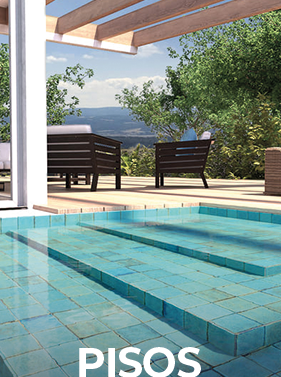
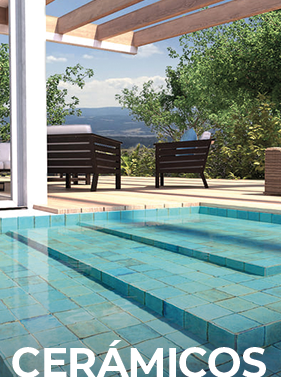
Ultimas modificaciones

Changed region(s): [[0.0285, 0.9045, 0.968, 1.0]]

diff --git a/js/productos-data.js b/js/productos-data.js
@@ -1,6 +1,6 @@
+// Archivo generado automáticamente
 
-
-const productos_aluminio = [{"id": 1, "titulo": "GUARDACANTO", "subtitulo": "Mate 9mm", "descripcion": "GAM9", "imgProducto": "img/ALUMINIO/PRODUCTOS/1_300X300_0029_GAM9.png", "imgFicha": "img/ALUMINIO/FICHA/1-FICHAS TECNICAS - ACERO2-09.png"}, {"id": 2, "titulo": "GUARDACANTO", "subtitulo": "Mate 12mm", "descripcion": "GAM12", "imgProducto": "img/ALUMINIO/PRODUCTOS/2_300X300_0039_GAM12.png", "imgFicha": "img/ALUMINIO/FICHA/2-FICHAS TECNICAS - ACERO2-13.png"}, {"id": 3, "titulo": "GUARDACANTO", "subtitulo": "PLUS Mate 9mm", "descripcion": "GAMP9", "imgProducto": "img/ALUMINIO/PRODUCTOS/3_300X300_0027_GAMP9.png", "imgFicha": "img/ALUMINIO/FICHA/3-FICHAS TECNICAS - ACERO2-17.png"}, {"id": 4, "titulo": "GUARDACANTO", "subtitulo": "Brillante 9mm", "descripcion": "GAB9", "imgProducto": "img/ALUMINIO/PRODUCTOS/4_300X300_0025_GAB9.png", "imgFicha": "img/ALUMINIO/FICHA/4-FICHAS TECNICAS - ACERO2-10.png"}, {"id": 5, "titulo": "GUARDACANTO", "subtitulo": "Brillante 12mm", "descripcion": "GAB12", "imgProducto": "img/ALUMINIO/PRODUCTOS/5_300X300_0026_GAB12.png", "imgFicha": "img/ALUMINIO/FICHA/5-FICHAS TECNICAS - ACERO2-14.png"}, {"id": 6, "titulo": "GUARDACANTO", "subtitulo": "PLUS Brillante 9mm", "descripcion": "GABP9", "imgProducto": "img/ALUMINIO/PRODUCTOS/6_300X300_0028_GABP9.png", "imgFicha": "img/ALUMINIO/FICHA/6-FICHAS TECNICAS - ACERO2-18.png"}, {"id": 7, "titulo": "GUARDACANTO", "subtitulo": "ORO Mate 9mm", "descripcion": "GAOM9", "imgProducto": "img/ALUMINIO/PRODUCTOS/7_300X300_0040_GAOM9.png", "imgFicha": "img/ALUMINIO/FICHA/7-FICHAS TECNICAS - ACERO2-11.png"}, {"id": 8, "titulo": "GUARDACANTO", "subtitulo": "ORO Mate 12mm", "descripcion": "GAOM12", "imgProducto": "img/ALUMINIO/PRODUCTOS/8_300X300_0030_GAOM12.png", "imgFicha": "img/ALUMINIO/FICHA/8-FICHAS TECNICAS - ACERO2-15.png"}, {"id": 9, "titulo": "GUARDACANTO", "subtitulo": "ORO PLUS Mate 9mm", "descripcion": "GAOMP9", "imgProducto": "img/ALUMINIO/PRODUCTOS/9_300X300_0036_GAOMP9.png", "imgFicha": "img/ALUMINIO/FICHA/9-FICHAS TECNICAS - ACERO2-19.png"}, {"id": 10, "titulo": "GUARDACANTO", "subtitulo": "ORO Brillante 9mm", "descripcion": "GAOB9", "imgProducto": "img/ALUMINIO/PRODUCTOS/10_300X300_0033_GAOB9.png", "imgFicha": "img/ALUMINIO/FICHA/10-FICHAS TECNICAS - ACERO2-12.png"}, {"id": 11, "titulo": "GUARDACANTO", "subtitulo": "ORO Brillante 12mm", "descripcion": "GAOB12", "imgProducto": "img/ALUMINIO/PRODUCTOS/11_300X300_0031_GAOB12 - copia.png", "imgFicha": "img/ALUMINIO/FICHA/11-FICHAS TECNICAS - ACERO2-16.png"}, {"id": 12, "titulo": "GUARDACANTO", "subtitulo": "ORO PLUS Brillante 9mm", "descripcion": "GAOBP9", "imgProducto": "img/ALUMINIO/PRODUCTOS/12_300X300_0037_GAOBP9.png", "imgFicha": "img/ALUMINIO/FICHA/12-FICHAS TECNICAS - ACERO2-20.png"}, {"id": 13, "titulo": "LISTEL", "subtitulo": "Mate 10X10mm", "descripcion": "LAM10X10", "imgProducto": "img/ALUMINIO/PRODUCTOS/13_300X300_0011_LAM10X10.png", "imgFicha": "img/ALUMINIO/FICHA/13-FICHAS TECNICAS - ACERO2-01.png"}, {"id": 14, "titulo": "LISTEL", "subtitulo": "Mate 10X20mm", "descripcion": "LAM10X20", "imgProducto": "img/ALUMINIO/PRODUCTOS/14_300X300_0013_LAM10X20.png", "imgFicha": "img/ALUMINIO/FICHA/14-FICHAS TECNICAS - ACERO2-05.png"}, {"id": 15, "titulo": "GUAR. ESCALERA", "subtitulo": "Sin Tratamiento", "descripcion": "GAEST", "imgProducto": "img/ALUMINIO/PRODUCTOS/15_300X300_0022_GAEST.png", "imgFicha": "img/ALUMINIO/FICHA/15-FICHAS TECNICAS - ACERO2-35-35.png"}, {"id": 16, "titulo": "LISTEL", "subtitulo": "Brillante 10X10mm", "descripcion": "LAB10X10", "imgProducto": "img/ALUMINIO/PRODUCTOS/16_300X300_0010_LAB10X10.png", "imgFicha": "img/ALUMINIO/FICHA/16-FICHAS TECNICAS - ACERO2-02.png"}, {"id": 17, "titulo": "LISTEL", "subtitulo": "Brillante 10X20mm", "descripcion": "LAB10X20", "imgProducto": "img/ALUMINIO/PRODUCTOS/17_300X300_0012_LAB10X20.png", "imgFicha": "img/ALUMINIO/FICHA/17-FICHAS TECNICAS - ACERO2-06.png"}, {"id": 18, "titulo": "GUAR. ESCALERA", "subtitulo": "Mate", "descripcion": "GAEM", "imgProducto": "img/ALUMINIO/PRODUCTOS/18_300X300_0021_GAEM.png", "imgFicha": "img/ALUMINIO/FICHA/18-FICHAS TECNICAS - ACERO2-30-30.png"}, {"id": 19, "titulo": "LISTEL", "subtitulo": "ORO Mate 10X10mm", "descripcion": "LAOM10X10", "imgProducto": "img/ALUMINIO/PRODUCTOS/19_300X300_0015_LAOM10X10.png", "imgFicha": "img/ALUMINIO/FICHA/19-FICHAS TECNICAS - ACERO2-03.png"}, {"id": 20, "titulo": "LISTEL", "subtitulo": "ORO Mate 10X20mm", "descripcion": "LAOM10X20", "imgProducto": "img/ALUMINIO/PRODUCTOS/20_300X300_0017_LAOM10X20.png", "imgFicha": "img/ALUMINIO/FICHA/20-FICHAS TECNICAS - ACERO2-07.png"}, {"id": 21, "titulo": "GUAR. ESCALERA II", "subtitulo": "Sin Tratamiento", "descripcion": "GAESTII", "imgProducto": "img/ALUMINIO/PRODUCTOS/21_300X300_0024_GAESTII.png", "imgFicha": "img/ALUMINIO/FICHA/21-FICHAS TECNICAS - ACERO2-36-36.png"}, {"id": 22, "titulo": "LISTEL", "subtitulo": "ORO Brillante 10X10mm", "descripcion": "LAOM10X10", "imgProducto": "img/ALUMINIO/PRODUCTOS/22_300X300_0014_LAOB10X10.png", "imgFicha": "img/ALUMINIO/FICHA/22-FICHAS TECNICAS - ACERO2-04.png"}, {"id": 23, "titulo": "LISTEL", "subtitulo": "ORO Brillante 10X20mm", "descripcion": "LAOM10X20", "imgProducto": "img/ALUMINIO/PRODUCTOS/23_300X300_0016_LAOB10X20.png", "imgFicha": "img/ALUMINIO/FICHA/23-FICHAS TECNICAS - ACERO2-08.png"}, {"id": 24, "titulo": "GUAR. ESCALERA II", "subtitulo": "Mate", "descripcion": "GAEMII", "imgProducto": "img/ALUMINIO/PRODUCTOS/24_300X300_0023_GAEMII.png", "imgFicha": "img/ALUMINIO/FICHA/24-FICHAS TECNICAS - ACERO2-31-31.png"}, {"id": 25, "titulo": "PERFIL L TROQ.", "subtitulo": "Mate 11mm", "descripcion": "L11M", "imgProducto": "img/ALUMINIO/PRODUCTOS/25_300X300_0009_L11M.png", "imgFicha": "img/ALUMINIO/FICHA/25-FICHAS TECNICAS - ACERO2-21-21.png"}, {"id": 26, "titulo": "UT QUADRA", "subtitulo": "Mate 10X10mm", "descripcion": "QUADRA10X10M", "imgProducto": "img/ALUMINIO/PRODUCTOS/26_300X300_0042_QUADRA10X10M.png", "imgFicha": "img/ALUMINIO/FICHA/26-FICHAS TECNICAS - ACERO2-27-27-27.png"}, {"id": 27, "titulo": "TAPACANTO", "subtitulo": "Mate 16X16mm", "descripcion": "TAPAC16X16M", "imgProducto": "img/ALUMINIO/PRODUCTOS/27_300X300_0003_TAPAC16M.png", "imgFicha": "img/ALUMINIO/FICHA/27-FICHAS TECNICAS - ACERO2-23-23.png"}, {"id": 28, "titulo": "PERFIL L TROQ.", "subtitulo": "Brillante 11mm", "descripcion": "L11B", "imgProducto": "img/ALUMINIO/PRODUCTOS/28_300X300_0008_L11B.png", "imgFicha": "img/ALUMINIO/FICHA/28-FICHAS TECNICAS - ACERO2-22-22-22.png"}, {"id": 29, "titulo": "UT QUADRA", "subtitulo": "Brillante 10X10mm", "descripcion": "QUADRA10X10B", "imgProducto": "img/ALUMINIO/PRODUCTOS/29_300X300_0041_QUADRA10X10B.png", "imgFicha": "img/ALUMINIO/FICHA/29-FICHAS TECNICAS - ACERO2-28-28-28.png"}, {"id": 30, "titulo": "TAPACANTO", "subtitulo": "Brillante 16X16mm", "descripcion": "TAPAC16X16B", "imgProducto": "img/ALUMINIO/PRODUCTOS/30_300X300_0004_TAPAC16B.png", "imgFicha": "img/ALUMINIO/FICHA/30-FICHAS TECNICAS - ACERO2-24-24.png"}, {"id": 31, "titulo": "LISTELO 29", "subtitulo": "Mate 10X28mm", "descripcion": "LISTEL29M", "imgProducto": "img/ALUMINIO/PRODUCTOS/31_300X300_0006_LISTELO29M.png", "imgFicha": "img/ALUMINIO/FICHA/31-FICHAS TECNICAS - ACERO2-25-25.png"}, {"id": 32, "titulo": "GUARDACANTO", "subtitulo": "Sin Tratamiento 9mm", "descripcion": "GAST9", "imgProducto": "img/ALUMINIO/PRODUCTOS/32_300X300_0025_GAST9.png", "imgFicha": "img/ALUMINIO/FICHA/32-FICHAS TECNICAS - ACERO2-32.png"}, {"id": 33, "titulo": "PERFIL L TROQ.", "subtitulo": "Sin Tratamiento 11mm", "descripcion": "L11ST", "imgProducto": "img/ALUMINIO/PRODUCTOS/33_300X300_0007_L11ST.png", "imgFicha": "img/ALUMINIO/FICHA/33-FICHAS TECNICAS - ACERO2-34-34.png"}, {"id": 34, "titulo": "LISTELO 29", "subtitulo": "Brillante 10X28mm", "descripcion": "LISTEL29B", "imgProducto": "img/ALUMINIO/PRODUCTOS/34_300X300_0005_LISTELO29B.png", "imgFicha": "img/ALUMINIO/FICHA/34-FICHAS TECNICAS - ACERO2-26-26.png"}, {"id": 35, "titulo": "GUARDACANTO", "subtitulo": "Sin Tratamiento 12mm", "descripcion": "GAST12", "imgProducto": "img/ALUMINIO/PRODUCTOS/35_300X300_0032_GAST12.png", "imgFicha": "img/ALUMINIO/FICHA/35-FICHAS TECNICAS - ACERO2-33.png"}, {"id": 36, "titulo": "DESNIVEL DE PISO.", "subtitulo": "Mate", "descripcion": "DESNPM", "imgProducto": "img/ALUMINIO/PRODUCTOS/36_300X300_0002_DESNP.png", "imgFicha": "img/ALUMINIO/FICHA/36-FICHAS TECNICAS - ACERO2-29-29.png"}];
+const productos_aluminio = [{"id": 1, "titulo": "GUARDACANTO", "subtitulo": "Mate 9mm", "descripcion": "GAM9", "imgProducto": "img/ALUMINIO/PRODUCTOS/1_300X300_0029_GAM9.png", "imgFicha": "img/ALUMINIO/FICHA/1-FICHAS TECNICAS - ACERO2-09.png"}, {"id": 2, "titulo": "GUARDACANTO", "subtitulo": "Mate 12mm", "descripcion": "GAM12", "imgProducto": "img/ALUMINIO/PRODUCTOS/2_300X300_0039_GAM12.png", "imgFicha": "img/ALUMINIO/FICHA/2-FICHAS TECNICAS - ACERO2-13.png"}, {"id": 3, "titulo": "GUARDACANTO", "subtitulo": "PLUS Mate 9mm", "descripcion": "GAMP9", "imgProducto": "img/ALUMINIO/PRODUCTOS/3_300X300_0027_GAMP9.png", "imgFicha": "img/ALUMINIO/FICHA/3-FICHAS TECNICAS - ACERO2-17.png"}, {"id": 4, "titulo": "GUARDACANTO", "subtitulo": "Brillante 9mm", "descripcion": "GAB9", "imgProducto": "img/ALUMINIO/PRODUCTOS/4_300X300_0025_GAB9.png", "imgFicha": "img/ALUMINIO/FICHA/4-FICHAS TECNICAS - ACERO2-10.png"}, {"id": 5, "titulo": "GUARDACANTO", "subtitulo": "Brillante 12mm", "descripcion": "GAB12", "imgProducto": "img/ALUMINIO/PRODUCTOS/5_300X300_0026_GAB12.png", "imgFicha": "img/ALUMINIO/FICHA/5-FICHAS TECNICAS - ACERO2-14.png"}, {"id": 6, "titulo": "GUARDACANTO", "subtitulo": "PLUS Brillante 9mm", "descripcion": "GABP9", "imgProducto": "img/ALUMINIO/PRODUCTOS/6_300X300_0028_GABP9.png", "imgFicha": "img/ALUMINIO/FICHA/6-FICHAS TECNICAS - ACERO2-18.png"}, {"id": 7, "titulo": "GUARDACANTO", "subtitulo": "ORO Mate 9mm", "descripcion": "GAOM9", "imgProducto": "img/ALUMINIO/PRODUCTOS/7_300X300_0040_GAOM9.png", "imgFicha": "img/ALUMINIO/FICHA/7-FICHAS TECNICAS - ACERO2-11.png"}, {"id": 8, "titulo": "GUARDACANTO", "subtitulo": "ORO Mate 12mm", "descripcion": "GAOM12", "imgProducto": "img/ALUMINIO/PRODUCTOS/8_300X300_0030_GAOM12.png", "imgFicha": "img/ALUMINIO/FICHA/8-FICHAS TECNICAS - ACERO2-15.png"}, {"id": 9, "titulo": "GUARDACANTO", "subtitulo": "ORO PLUS Mate 9mm", "descripcion": "GAOMP9", "imgProducto": "img/ALUMINIO/PRODUCTOS/9_300X300_0036_GAOMP9.png", "imgFicha": "img/ALUMINIO/FICHA/9-FICHAS TECNICAS - ACERO2-19.png"}, {"id": 10, "titulo": "GUARDACANTO", "subtitulo": "ORO Brillante 9mm", "descripcion": "GAOB9", "imgProducto": "img/ALUMINIO/PRODUCTOS/10_300X300_0033_GAOB9.png", "imgFicha": "img/ALUMINIO/FICHA/10-FICHAS TECNICAS - ACERO2-12.png"}, {"id": 11, "titulo": "GUARDACANTO", "subtitulo": "ORO Brillante 12mm", "descripcion": "GAOB12", "imgProducto": "img/ALUMINIO/PRODUCTOS/11_300X300_0031_GAOB12 - copia.png", "imgFicha": "img/ALUMINIO/FICHA/11-FICHAS TECNICAS - ACERO2-16.png"}, {"id": 12, "titulo": "GUARDACANTO", "subtitulo": "ORO PLUS Brillante 9mm", "descripcion": "GAOBP9", "imgProducto": "img/ALUMINIO/PRODUCTOS/12_300X300_0037_GAOBP9.png", "imgFicha": "img/ALUMINIO/FICHA/12-FICHAS TECNICAS - ACERO2-20.png"}, {"id": 13, "titulo": "LISTEL", "subtitulo": "Mate 10X10mm", "descripcion": "LAM10X10", "imgProducto": "img/ALUMINIO/PRODUCTOS/13_300X300_0011_LAM10X10.png", "imgFicha": "img/ALUMINIO/FICHA/13-FICHAS TECNICAS - ACERO2-01.png"}, {"id": 14, "titulo": "LISTEL", "subtitulo": "Mate 10X20mm", "descripcion": "LAM10X20", "imgProducto": "img/ALUMINIO/PRODUCTOS/14_300X300_0013_LAM10X20.png", "imgFicha": "img/ALUMINIO/FICHA/14-FICHAS TECNICAS - ACERO2-05.png"}, {"id": 15, "titulo": "GUAR. ESCALERA", "subtitulo": "Sin Tratamiento", "descripcion": "GAEST", "imgProducto": "img/ALUMINIO/PRODUCTOS/15_300X300_0022_GAEST.png", "imgFicha": "img/ALUMINIO/FICHA/15-FICHAS TECNICAS - ACERO2-35-35.png"}, {"id": 16, "titulo": "LISTEL", "subtitulo": "Brillante 10X10mm", "descripcion": "LAB10X10", "imgProducto": "img/ALUMINIO/PRODUCTOS/16_300X300_0010_LAB10X10.png", "imgFicha": "img/ALUMINIO/FICHA/16-FICHAS TECNICAS - ACERO2-02.png"}, {"id": 17, "titulo": "LISTEL", "subtitulo": "Brillante 10X20mm", "descripcion": "LAB10X20", "imgProducto": "img/ALUMINIO/PRODUCTOS/17_300X300_0012_LAB10X20.png", "imgFicha": "img/ALUMINIO/FICHA/17-FICHAS TECNICAS - ACERO2-06.png"}, {"id": 18, "titulo": "GUAR. ESCALERA", "subtitulo": "Mate", "descripcion": "GAEM", "imgProducto": "img/ALUMINIO/PRODUCTOS/18_300X300_0021_GAEM.png", "imgFicha": "img/ALUMINIO/FICHA/18-FICHAS TECNICAS - ACERO2-30-30.png"}, {"id": 19, "titulo": "LISTEL", "subtitulo": "ORO Mate 10X10mm", "descripcion": "LAOM10X10", "imgProducto": "img/ALUMINIO/PRODUCTOS/19_300X300_0015_LAOM10X10.png", "imgFicha": "img/ALUMINIO/FICHA/19-FICHAS TECNICAS - ACERO2-03.png"}, {"id": 20, "titulo": "LISTEL", "subtitulo": "ORO Mate 10X20mm", "descripcion": "LAOM10X20", "imgProducto": "img/ALUMINIO/PRODUCTOS/20_300X300_0017_LAOM10X20.png", "imgFicha": "img/ALUMINIO/FICHA/20-FICHAS TECNICAS - ACERO2-07.png"}, {"id": 21, "titulo": "GUAR. ESCALERA II", "subtitulo": "Sin Tratamiento", "descripcion": "GAESTII", "imgProducto": "img/ALUMINIO/PRODUCTOS/21_300X300_0024_GAESTII.png", "imgFicha": "img/ALUMINIO/FICHA/21-FICHAS TECNICAS - ACERO2-36-36.png"}, {"id": 22, "titulo": "LISTEL", "subtitulo": "ORO Brillante 10X10mm", "descripcion": "LAOM10X10", "imgProducto": "img/ALUMINIO/PRODUCTOS/22_300X300_0014_LAOB10X10.png", "imgFicha": "img/ALUMINIO/FICHA/22-FICHAS TECNICAS - ACERO2-04.png"}, {"id": 23, "titulo": "LISTEL", "subtitulo": "ORO Brillante 10X20mm", "descripcion": "LAOM10X20", "imgProducto": "img/ALUMINIO/PRODUCTOS/23_300X300_0016_LAOB10X20.png", "imgFicha": "img/ALUMINIO/FICHA/23-FICHAS TECNICAS - ACERO2-08.png"}, {"id": 24, "titulo": "GUAR. ESCALERA II", "subtitulo": "Mate", "descripcion": "GAEMII", "imgProducto": "img/ALUMINIO/PRODUCTOS/24_300X300_0023_GAEMII.png", "imgFicha": "img/ALUMINIO/FICHA/24-FICHAS TECNICAS - ACERO2-31-31.png"}, {"id": 25, "titulo": "PERFIL L TROQ.", "subtitulo": "Mate 11mm", "descripcion": "L11M", "imgProducto": "img/ALUMINIO/PRODUCTOS/25_300X300_0009_L11M.png", "imgFicha": "img/ALUMINIO/FICHA/25-FICHAS TECNICAS - ACERO2-21-21.png"}, {"id": 26, "titulo": "UT QUADRA", "subtitulo": "Mate 10X10mm", "descripcion": "QUADRA10X10M", "imgProducto": "img/ALUMINIO/PRODUCTOS/26_300X300_0042_QUADRA10X10M.png", "imgFicha": "img/ALUMINIO/FICHA/26-FICHAS TECNICAS - ACERO2-27-27-27.png"}, {"id": 27, "titulo": "TAPACANTO", "subtitulo": "Mate 16X16mm", "descripcion": "TAPAC16X16M", "imgProducto": "img/ALUMINIO/PRODUCTOS/27_300X300_0003_TAPAC16M.png", "imgFicha": "img/ALUMINIO/FICHA/27-FICHAS TECNICAS - ACERO2-23-23.png"}, {"id": 28, "titulo": "PERFIL L TROQ.", "subtitulo": "Brillante 11mm", "descripcion": "L11B", "imgProducto": "img/ALUMINIO/PRODUCTOS/28_300X300_0008_L11B.png", "imgFicha": "img/ALUMINIO/FICHA/28-FICHAS TECNICAS - ACERO2-22-22-22.png"}, {"id": 29, "titulo": "UT QUADRA", "subtitulo": "Brillante 10X10mm", "descripcion": "QUADRA10X10B", "imgProducto": "img/ALUMINIO/PRODUCTOS/29_300X300_0041_QUADRA10X10B.png", "imgFicha": "img/ALUMINIO/FICHA/29-FICHAS TECNICAS - ACERO2-28-28-28.png"}, {"id": 30, "titulo": "TAPACANTO", "subtitulo": "Brillante 16X16mm", "descripcion": "TAPAC16X16B", "imgProducto": "img/ALUMINIO/PRODUCTOS/30_300X300_0004_TAPAC16B.png", "imgFicha": "img/ALUMINIO/FICHA/30-FICHAS TECNICAS - ACERO2-24-24.png"}, {"id": 31, "titulo": "LISTELO 29", "subtitulo": "Mate 10X28mm", "descripcion": "LISTEL29M", "imgProducto": "img/ALUMINIO/PRODUCTOS/31_300X300_0006_LISTELO29M.png", "imgFicha": "img/ALUMINIO/FICHA/31-FICHAS TECNICAS - ACERO2-25-25.png"}, {"id": 32, "titulo": "GUARDACANTO", "subtitulo": "Sin Tratamiento 9mm", "descripcion": "GAST9", "imgProducto": "img/ALUMINIO/PRODUCTOS/32_300X300_0025_GAST9.png", "imgFicha": "img/ALUMINIO/FICHA/32-FICHAS TECNICAS - ACERO2-32.png"}, {"id": 33, "titulo": "PERFIL L TROQ.", "subtitulo": "Sin Tratamiento 11mm", "descripcion": "L11ST", "imgProducto": "img/ALUMINIO/PRODUCTOS/33_300X300_0007_L11ST.png", "imgFicha": "img/ALUMINIO/FICHA/33-FICHAS TECNICAS - ACERO2-34-34.png"}, {"id": 34, "titulo": "LISTELO 29", "subtitulo": "Brillante 10X28mm", "descripcion": "LISTEL29B", "imgProducto": "img/ALUMINIO/PRODUCTOS/34_300X300_0005_LISTELO29B.png", "imgFicha": "img/ALUMINIO/FICHA/34-FICHAS TECNICAS - ACERO2-26-26.png"}, {"id": 35, "titulo": "GUARDACANTO", "subtitulo": "Sin Tratamiento 12mm", "descripcion": "GAST12", "imgProducto": "img/ALUMINIO/PRODUCTOS/35_300X300_0032_GAST12.png", "imgFicha": "img/ALUMINIO/FICHA/35-FICHAS TECNICAS - ACERO2-33.png"}, {"id": 36, "titulo": "DESNIVEL DE PISO.", "subtitulo": "Mate", "descripcion": "DESNPM", "imgProducto": "img/ALUMINIO/PRODUCTOS/36_300X300_0002_DESNP.png", "imgFicha": "img/ALUMINIO/FICHA/36-FICHAS TECNICAS - ACERO2-29-29-29.png"}];
 
 const productos_acero = [{"id": 1, "titulo": "LISTEL", "subtitulo": "Brillante 10X10mm", "descripcion": "U10X10B", "imgProducto": "img/ACERO/PRODUCTOS/1_300X300---SIN-FONDO---ACERO_0014_300X300_0011_U10X10B.png", "imgFicha": "img/ACERO/FICHA/1-FICHAS TECNICAS - ACERO2-01.png"}, {"id": 2, "titulo": "LISTEL", "subtitulo": "Brillante 12X15mm", "descripcion": "U12X15B", "imgProducto": "img/ACERO/PRODUCTOS/2_300X300---SIN-FONDO---ACERO_0020_300X300_0005_U12X15B.png", "imgFicha": "img/ACERO/FICHA/2-FICHAS TECNICAS - ACERO2-02.png"}, {"id": 3, "titulo": "LISTEL", "subtitulo": "Brillante 10X20mm", "descripcion": "U10X20B", "imgProducto": "img/ACERO/PRODUCTOS/3_300X300---SIN-FONDO---ACERO_0016_300X300_0009_U10X20B.png", "imgFicha": "img/ACERO/FICHA/3-FICHAS TECNICAS - ACERO2-03.png"}, {"id": 4, "titulo": "LISTEL", "subtitulo": "Mate 10X10mm", "descripcion": "U10X10M", "imgProducto": "img/ACERO/PRODUCTOS/4_300X300---SIN-FONDO---ACERO_0015_300X300_0010_U10X10M.png", "imgFicha": "img/ACERO/FICHA/4-FICHAS TECNICAS - ACERO2-04.png"}, {"id": 5, "titulo": "LISTEL", "subtitulo": "Mate 12X15mm", "descripcion": "U12X15M", "imgProducto": "img/ACERO/PRODUCTOS/5_300X300---SIN-FONDO---ACERO_0021_300X300_0004_U12X15M.png", "imgFicha": "img/ACERO/FICHA/5-FICHAS TECNICAS - ACERO2-05.png"}, {"id": 6, "titulo": "LISTEL", "subtitulo": "Mate 10X20mm", "descripcion": "U10X20M", "imgProducto": "img/ACERO/PRODUCTOS/6_300X300---SIN-FONDO---ACERO_0017_300X300_0008_U10X20M.png", "imgFicha": "img/ACERO/FICHA/6-FICHAS TECNICAS - ACERO2-06.png"}, {"id": 7, "titulo": "LISTEL", "subtitulo": "Brillante 10X30mm", "descripcion": "U10X30B", "imgProducto": "img/ACERO/PRODUCTOS/7_300X300---SIN-FONDO---ACERO_0018_300X300_0007_U10X30B.png", "imgFicha": "img/ACERO/FICHA/7-FICHAS TECNICAS - ACERO2-07.png"}, {"id": 8, "titulo": "LISTEL", "subtitulo": "Brillante 10X40mm", "descripcion": "U10X40B", "imgProducto": "img/ACERO/PRODUCTOS/8_300X300---SIN-FONDO---ACERO_0022_300X300_0003_U10X40B.png", "imgFicha": "img/ACERO/FICHA/8-FICHAS TECNICAS - ACERO2-08.png"}, {"id": 9, "titulo": "LISTEL", "subtitulo": "Brillante 10X50mm", "descripcion": "U10X50B", "imgProducto": "img/ACERO/PRODUCTOS/9_300X300---SIN-FONDO---ACERO_0024_300X300_0001_U10X50B.png", "imgFicha": "img/ACERO/FICHA/9-FICHAS TECNICAS - ACERO2-09.png"}, {"id": 10, "titulo": "LISTEL", "subtitulo": "Mate 10X30mm", "descripcion": "U10X30M", "imgProducto": "img/ACERO/PRODUCTOS/10_300X300---SIN-FONDO---ACERO_0019_300X300_0006_U10X30M.png", "imgFicha": "img/ACERO/FICHA/10-FICHAS TECNICAS - ACERO2-10.png"}, {"id": 11, "titulo": "LISTEL", "subtitulo": "Mate 10X40mm", "descripcion": "U10X40M", "imgProducto": "img/ACERO/PRODUCTOS/11_300X300---SIN-FONDO---ACERO_0023_300X300_0002_U10X40M.png", "imgFicha": "img/ACERO/FICHA/11-FICHAS TECNICAS - ACERO2-11.png"}, {"id": 12, "titulo": "LISTEL", "subtitulo": "Mate 10X50mm", "descripcion": "U10X50M", "imgProducto": "img/ACERO/PRODUCTOS/12_300X300---SIN-FONDO---ACERO_0025_Capa-0.png", "imgFicha": "img/ACERO/FICHA/12-FICHAS TECNICAS - ACERO2-12.png"}, {"id": 13, "titulo": "TAPACANTO", "subtitulo": "Brillante", "descripcion": "TA20X20B", "imgProducto": "img/ACERO/PRODUCTOS/13_300X300---SIN-FONDO---ACERO_0013_300X300_0013_TAPACAB.png", "imgFicha": "img/ACERO/FICHA/13-FICHAS TECNICAS - ACERO2-13.png"}, {"id": 14, "titulo": "PERFIL TROQ.", "subtitulo": "Brillante 12,5mm", "descripcion": "LT12,5B", "imgProducto": "img/ACERO/PRODUCTOS/14_300X300---SIN-FONDO---ACERO_0010_300X300_0015_L11B.png", "imgFicha": "img/ACERO/FICHA/14-FICHAS TECNICAS - ACERO2-14.png"}, {"id": 15, "titulo": "DESNIVEL DE PISO", "subtitulo": "Brillante 10X25mm", "descripcion": "DESNP ACB", "imgProducto": "img/ACERO/PRODUCTOS/15_300X300---SIN-FONDO---ACERO_0005_300X300_0020_DESNPB.png", "imgFicha": "img/ACERO/FICHA/15-FICHAS TECNICAS - ACERO2-15.png"}, {"id": 16, "titulo": "TAPACANTO", "subtitulo": "Mate", "descripcion": "TA20X20M", "imgProducto": "img/ACERO/PRODUCTOS/16_300X300---SIN-FONDO---ACERO_0012_300X300_0013_TAPACAM.png", "imgFicha": "img/ACERO/FICHA/16-FICHAS TECNICAS - ACERO2-16.png"}, {"id": 17, "titulo": "PERFIL TROQ.", "subtitulo": "Mate 12,5mm", "descripcion": "LT12,5M", "imgProducto": "img/ACERO/PRODUCTOS/17_300X300---SIN-FONDO---ACERO_0011_300X300_0014_L11M.png", "imgFicha": "img/ACERO/FICHA/17-FICHAS TECNICAS - ACERO2-17.png"}, {"id": 18, "titulo": "DESNIVEL DE PISO", "subtitulo": "Mate 10X25mm", "descripcion": "DESNP ACM", "imgProducto": "img/ACERO/PRODUCTOS/18_300X300---SIN-FONDO---ACERO_0004_300X300_0021_DESNPM.png", "imgFicha": "img/ACERO/FICHA/18-FICHAS TECNICAS - ACERO2-18.png"}, {"id": 19, "titulo": "LISTEL U TROQ.", "subtitulo": "Brillante 10X10mm", "descripcion": "UT10X10B", "imgProducto": "img/ACERO/PRODUCTOS/19_300X300---SIN-FONDO---ACERO_0000_300X300_0025_UT10X10B.png", "imgFicha": "img/ACERO/FICHA/19-FICHAS TECNICAS - ACERO2-19.png"}, {"id": 20, "titulo": "LISTEL U TROQ.", "subtitulo": "Brillante 12X15mm", "descripcion": "UT12X15B", "imgProducto": "img/ACERO/PRODUCTOS/20_300X300---SIN-FONDO---ACERO_0002_300X300_0023_UT12X15B.png", "imgFicha": "img/ACERO/FICHA/20-FICHAS TECNICAS - ACERO2-20.png"}, {"id": 21, "titulo": "GUARDACANTO", "subtitulo": "Brillante 9mm", "descripcion": "GACE9B", "imgProducto": "img/ACERO/PRODUCTOS/21_300X300---SIN-FONDO---ACERO_0006_300X300_0019_GACERO9B.png", "imgFicha": "img/ACERO/FICHA/21-FICHAS TECNICAS - ACERO2-21.png"}, {"id": 22, "titulo": "LISTEL U TROQ.", "subtitulo": "Mate 10X10mm", "descripcion": "UT10X10M", "imgProducto": "img/ACERO/PRODUCTOS/22_300X300---SIN-FONDO---ACERO_0001_300X300_0024_UT10X10M.png", "imgFicha": "img/ACERO/FICHA/22-FICHAS TECNICAS - ACERO2-22.png"}, {"id": 23, "titulo": "LISTEL U TROQ.", "subtitulo": "Mate 12X15mm", "descripcion": "UT12X15M", "imgProducto": "img/ACERO/PRODUCTOS/23_300X300---SIN-FONDO---ACERO_0003_300X300_0022_UT12X15M.png", "imgFicha": "img/ACERO/FICHA/23-FICHAS TECNICAS - ACERO2-23.png"}, {"id": 24, "titulo": "GUARDACANTO", "subtitulo": "Mate 9mm", "descripcion": "GACE9M", "imgProducto": "img/ACERO/PRODUCTOS/24_300X300---SIN-FONDO---ACERO_0007_300X300_0018_GACERO9M.png", "imgFicha": "img/ACERO/FICHA/24-FICHAS TECNICAS - ACERO2-24.png"}, {"id": 25, "titulo": "GUARDACANTO", "subtitulo": "Brillante 12mm", "descripcion": "GACE12B", "imgProducto": "img/ACERO/PRODUCTOS/25_300X300---SIN-FONDO---ACERO_0008_300X300_0017_GACERO12B.png", "imgFicha": "img/ACERO/FICHA/25-FICHAS TECNICAS - ACERO2-25.png"}, {"id": 26, "titulo": "GUARDACANTO", "subtitulo": "Mate 12mm", "descripcion": "GACE12M", "imgProducto": "img/ACERO/PRODUCTOS/26_300X300---SIN-FONDO---ACERO_0009_300X300_0016_GACERO12M.png", "imgFicha": "img/ACERO/FICHA/26-FICHAS TECNICAS - ACERO2-26.png"}];
 

diff --git a/pisos.html b/pisos.html
@@ -303,7 +303,7 @@
                             <img src="img/CERAMICAS/PRODUCTOS + FICHAS/PISOS/SAVOIA GRIGIO.jpg" alt="Producto 2"
                                 class="card-img-placeholder">
                             <h3 class="card-title-pisos">SAVOIA GRIGIO</h3>
-                            <p class="card-subtext-pisos"> 63X122 cm</p>
+                            <p class="card-subtext-pisos"> 60X60 cm</p>
                             <p class="card-text-pisos">
                                 Cerámico rectificado de acabado satinado, perteneciente a la línea de concretos, ideal
                                 para lograr un estilo rústico-industrial con carácter y personalidad.
@@ -356,7 +356,7 @@
                         <div class="card-pisos">
                             <img src="img/CERAMICAS/PRODUCTOS + FICHAS/DECORATIVOS/DECO.png" alt="Producto 1"
                                 class="card-img-placeholder">
-                            <h3 class="card-title-pisos">WHITE & BLACH</h3>
+                            <h3 class="card-title-pisos">WHITE & BLACK</h3>
                             <p class="card-subtitle-pisos">7,5X15 cm</p>
                             <p class="card-text-pisos">
                                 Cerámicos decorativos biselados que ofrecen múltiples opciones de colocación,
@@ -378,7 +378,7 @@
                         <div class="card-pisos">
                             <img src="img/CERAMICAS/PRODUCTOS + FICHAS/DECORATIVOS/DECO.png" alt="Producto 2"
                                 class="card-img-placeholder">
-                            <h3 class="card-title-pisos">WHITE & BLACH</h3>
+                            <h3 class="card-title-pisos">WHITE & BLACK</h3>
                             <p class="card-subtitle-pisos">10X10 cm</p>
                             <p class="card-text-pisos">
                                 Cerámicos decorativos biselados que ofrecen múltiples opciones de colocación,

diff --git a/index.html b/index.html
@@ -81,7 +81,7 @@
                 </button>
             </div>
             <h1>FABRICANTES Y DISTRIBUIDORES A NIVEL NACIONAL</h1>
-            <p>DE PERFILES DE ACERO, ALUMINIO Y PVC, PISOS Y REVESTIVIENTOS IMPORTADOS, Y BACHAS DE APOYO</p>
+            <p>DE PERFILES DE ACERO, ALUMINIO Y PVC, PISOS Y REVESTIMIENTOS IMPORTADOS, Y BACHAS DE APOYO</p>
         </div>
     </section>
 
@@ -169,7 +169,7 @@
                         <div class="product-card">
                             <img src="img/IMAGENES DE CUERPO/PROD-PISOS.png" class="card-img-top" alt="Producto 4">
                             <div class="card-body">
-                                <h5 class="card-title-prod">PISOS</h5>
+                                <h5 class="card-title-prod">CERÁMICOS</h5>
                                 <p class="card-text">Catálogo de productos importados para pisos, revestimientos y piscinas. Propuestas que combinan diseño, calidad y funcionalidad, ideales para una amplia variedad de estilos y necesidades, tanto en espacios interiores como exteriores.</p>
                             </div>
                         </div>
@@ -203,7 +203,7 @@
     <!-- Sección EMPRESA -->
     <section id="empresa" class="section">
         <div class="container custom-container">
-            <h2 class="custom-title">+10 AÑOS ACOMPAÑANDO A NUESTROS CLIENTES</h2>
+            <h2 class="custom-title">+15 AÑOS ACOMPAÑANDO A NUESTROS CLIENTES</h2>
             <p class="custom-subtitle">Somos una empresa dedicada a la fabricación y comercialización de Perfiles y
                 Accesorios para la construcción. Contamos con una amplia variedad de productos y atención personalizada
                 al Cliente.</p>
